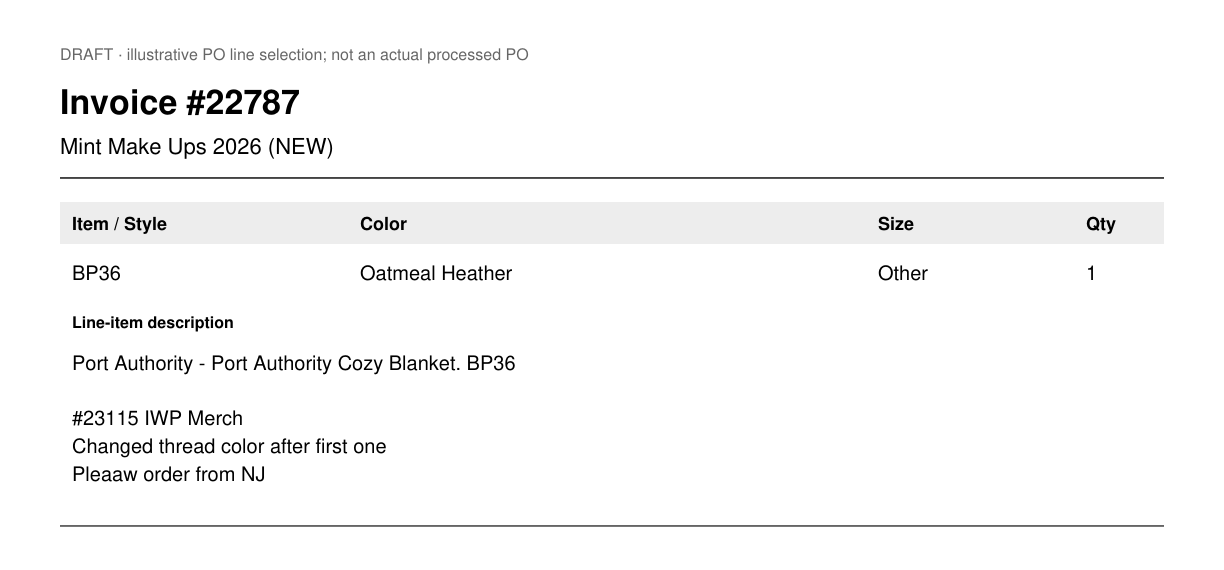
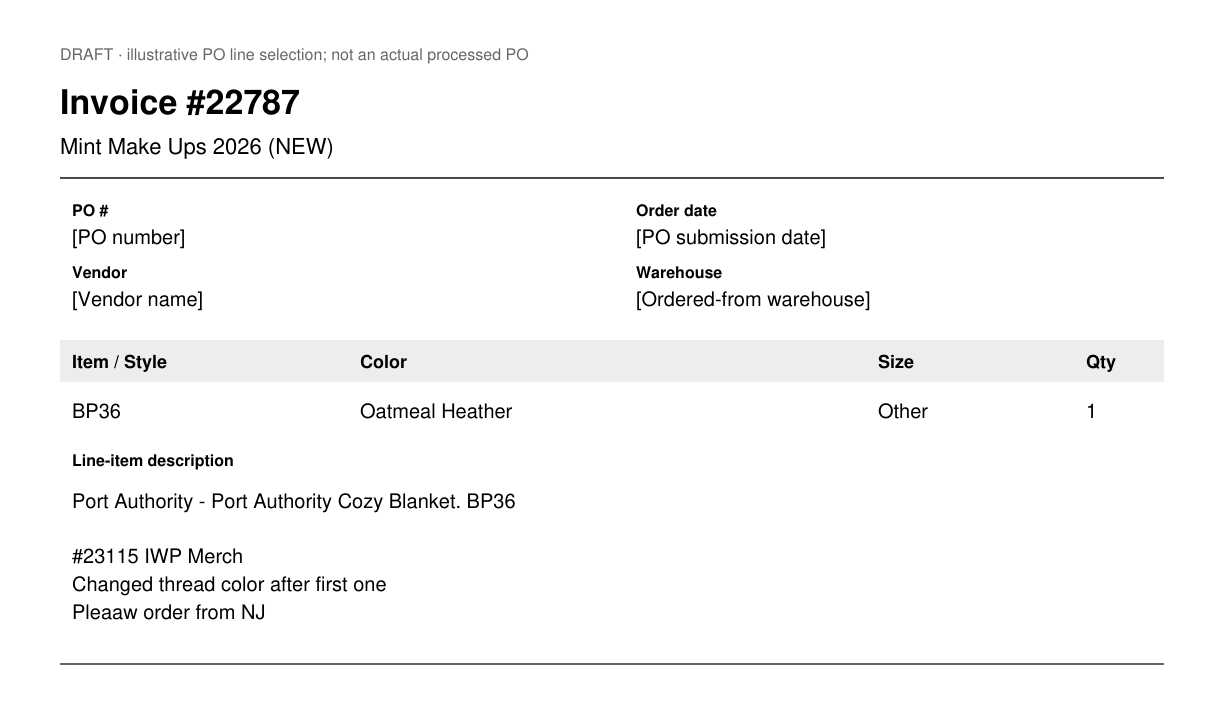
Update agent metadata and export drafting assets
Replit-Commit-Author: Agent

diff --git a/exports/build-replacement-slip-draft.py b/exports/build-replacement-slip-draft.py
@@ -9,18 +9,28 @@ page.insert_text((left, 57), "Invoice #22787", fontsize=17, fontname="hebo")
 page.insert_text((left, 77), "Mint Make Ups 2026 (NEW)", fontsize=11)
 page.draw_line((left, 89), (right, 89), width=.7)
 
-page.draw_rect(pdf.Rect(left, 101, right, 122), color=None, fill=(.93,.93,.93))
-for x, label in [(36,"Item / Style"),(180,"Color"),(439,"Size"),(543,"Qty")]:
-    page.insert_text((x,115),label,fontsize=9,fontname="hebo")
-for x, text in [(36,"BP36"),(180,"Oatmeal Heather"),(439,"Other"),(543,"1")]:
-    page.insert_text((x,140),text,fontsize=10)
+for x, y, label, value in [
+    (36, 108, "PO #", "[PO number]"),
+    (318, 108, "Order date", "[PO submission date]"),
+    (36, 139, "Vendor", "[Vendor name]"),
+    (318, 139, "Warehouse", "[Ordered-from warehouse]"),
+]:
+    page.insert_text((x, y), label, fontsize=8, fontname="hebo")
+    page.insert_text((x, y + 14), value, fontsize=10)
 
-page.insert_text((36,164),"Line-item description",fontsize=8,fontname="hebo")
+page.draw_rect(pdf.Rect(left, 170, right, 191), color=None, fill=(.93,.93,.93))
+for x, label in [(36,"Item / Style"),(180,"Color"),(439,"Size"),(543,"Qty")]:
+    page.insert_text((x,184),label,fontsize=9,fontname="hebo")
+for x, text in [(36,"BP36"),(180,"Oatmeal Heather"),(439,"Other"),(543,"1")]:
+    page.insert_text((x,209),text,fontsize=10)
+
+page.insert_text((36,233),"Line-item description",fontsize=8,fontname="hebo")
 description = ("Port Authority - Port Authority Cozy Blanket. BP36\n\n"
                "#23115 IWP Merch\n"
                "Changed thread color after first one\n"
                "Pleaaw order from NJ")
-page.insert_textbox(pdf.Rect(36,174,576,260),description,fontsize=10,lineheight=1.3)
-page.draw_line((left,263),(right,263),width=.6)
+remaining = page.insert_textbox(pdf.Rect(36,243,576,329),description,fontsize=10,lineheight=1.3)
+assert remaining >= 0, "Description does not fit in the draft"
+page.draw_line((left,332),(right,332),width=.6)
 doc.save("exports/invoice-22787-po-slip-draft.pdf")
-page.get_pixmap(matrix=pdf.Matrix(2,2),clip=pdf.Rect(0,0,612,285)).save("exports/invoice-22787-po-slip-draft.png")
+page.get_pixmap(matrix=pdf.Matrix(2,2),clip=pdf.Rect(0,0,612,354)).save("exports/invoice-22787-po-slip-draft.png")

diff --git a/.agents/memory/auto-print-reprint-policy.md b/.agents/memory/auto-print-reprint-policy.md
@@ -55,6 +55,10 @@ updates, delete existing attachments, or suppress a shared PO's customer work.
 The user requested a draft of a replacement slip for 22787 containing only
 invoice number, nickname, and the line details belonging to the PO being
 processed. Full line descriptions carry pertinent replacement/fix instructions.
+They approved the general draft appearance and additionally require PO number,
+order date, vendor, and ordered-from warehouse. Use verified PO submission data;
+do not infer an actual fulfillment warehouse from free-text ordering instructions.
+If a PO uses multiple warehouses, retain the warehouse association per line.
 The draft is not approval to activate slip printing; the full-workorder skip
 remains in force.
 
